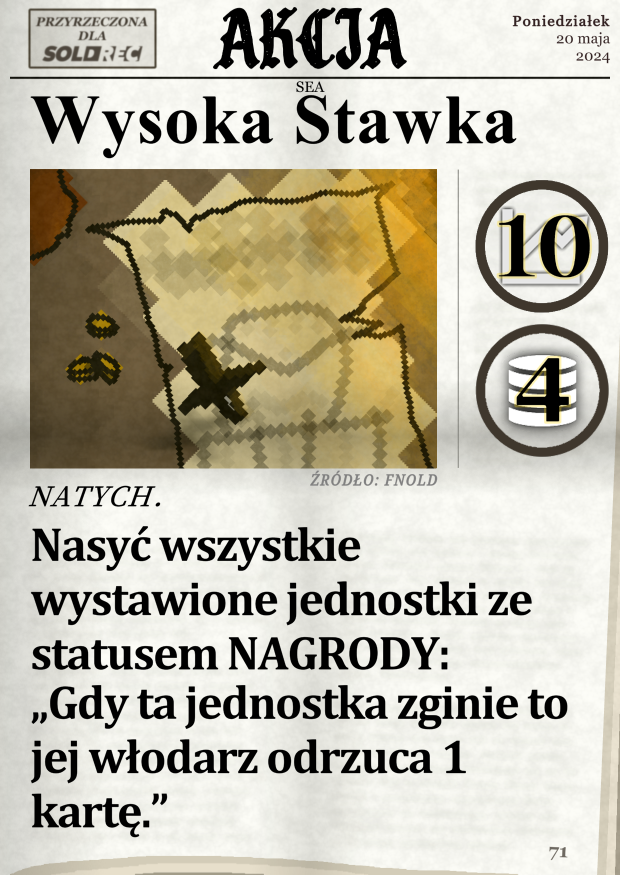
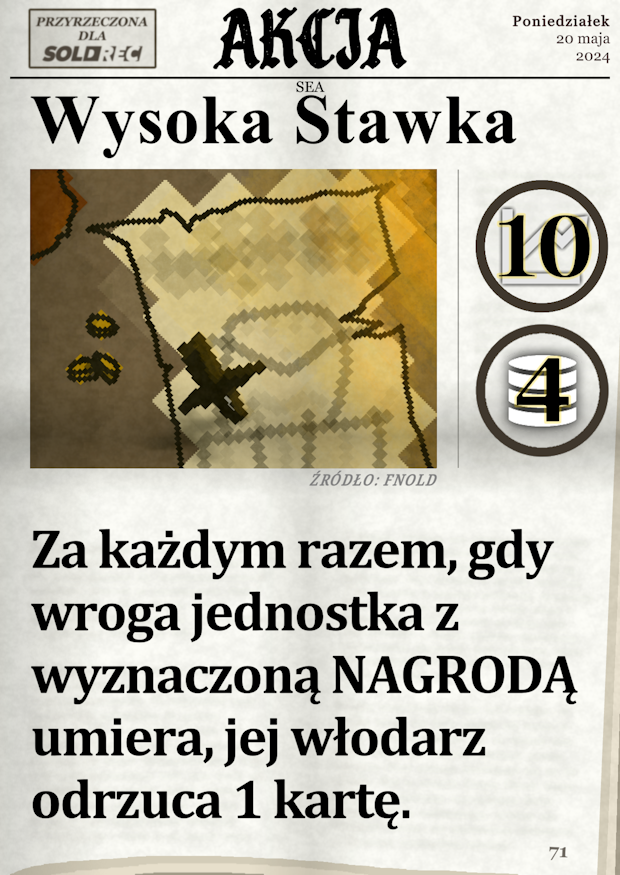
fix card 71

diff --git a/karty/card-database/akcje/71.js b/karty/card-database/akcje/71.js
@@ -3,10 +3,10 @@ function latest() {
     const site_title = card_title;
     const card_cost = "4C 10P";
     const card_cost_info = "4 Monety i 10 Popularności";
-    const card_type = "Akcja - NATYCH.";
+    const card_type = "Akcja";
     const card_description = `
         <p>
-        Nasyć wszystkie wystawione jednostki ze statusem NAGRODY: "Gdy ta jednostka zginie to jej włodarz odrzuca 1 kartę."
+        Za każdym razem, gdy wroga jednostka z wyznaczoną NAGRODĄ umiera, jej włodarz odrzuca 1 kartę.
         </p>`;
     const card_author = `
         <i>
